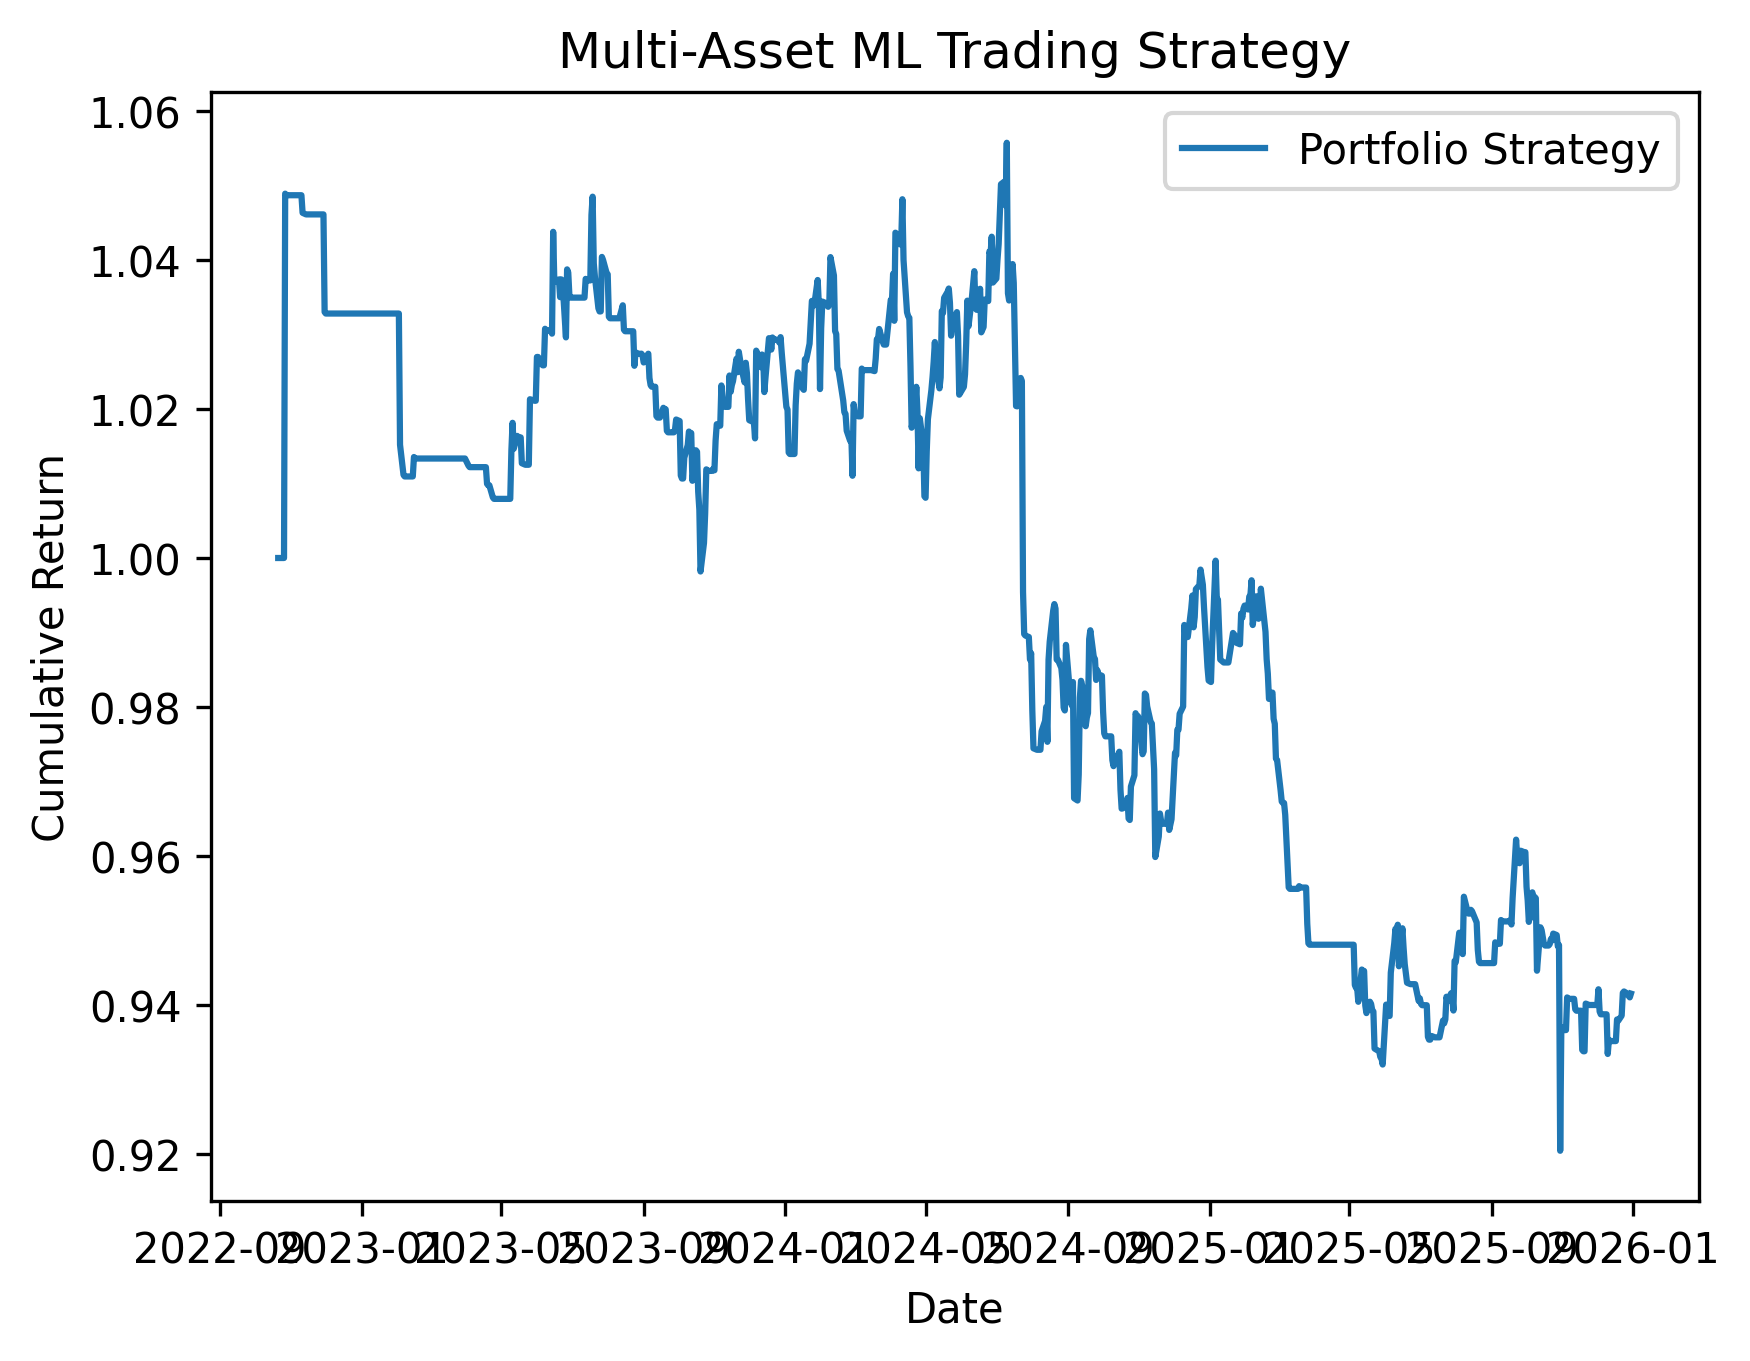
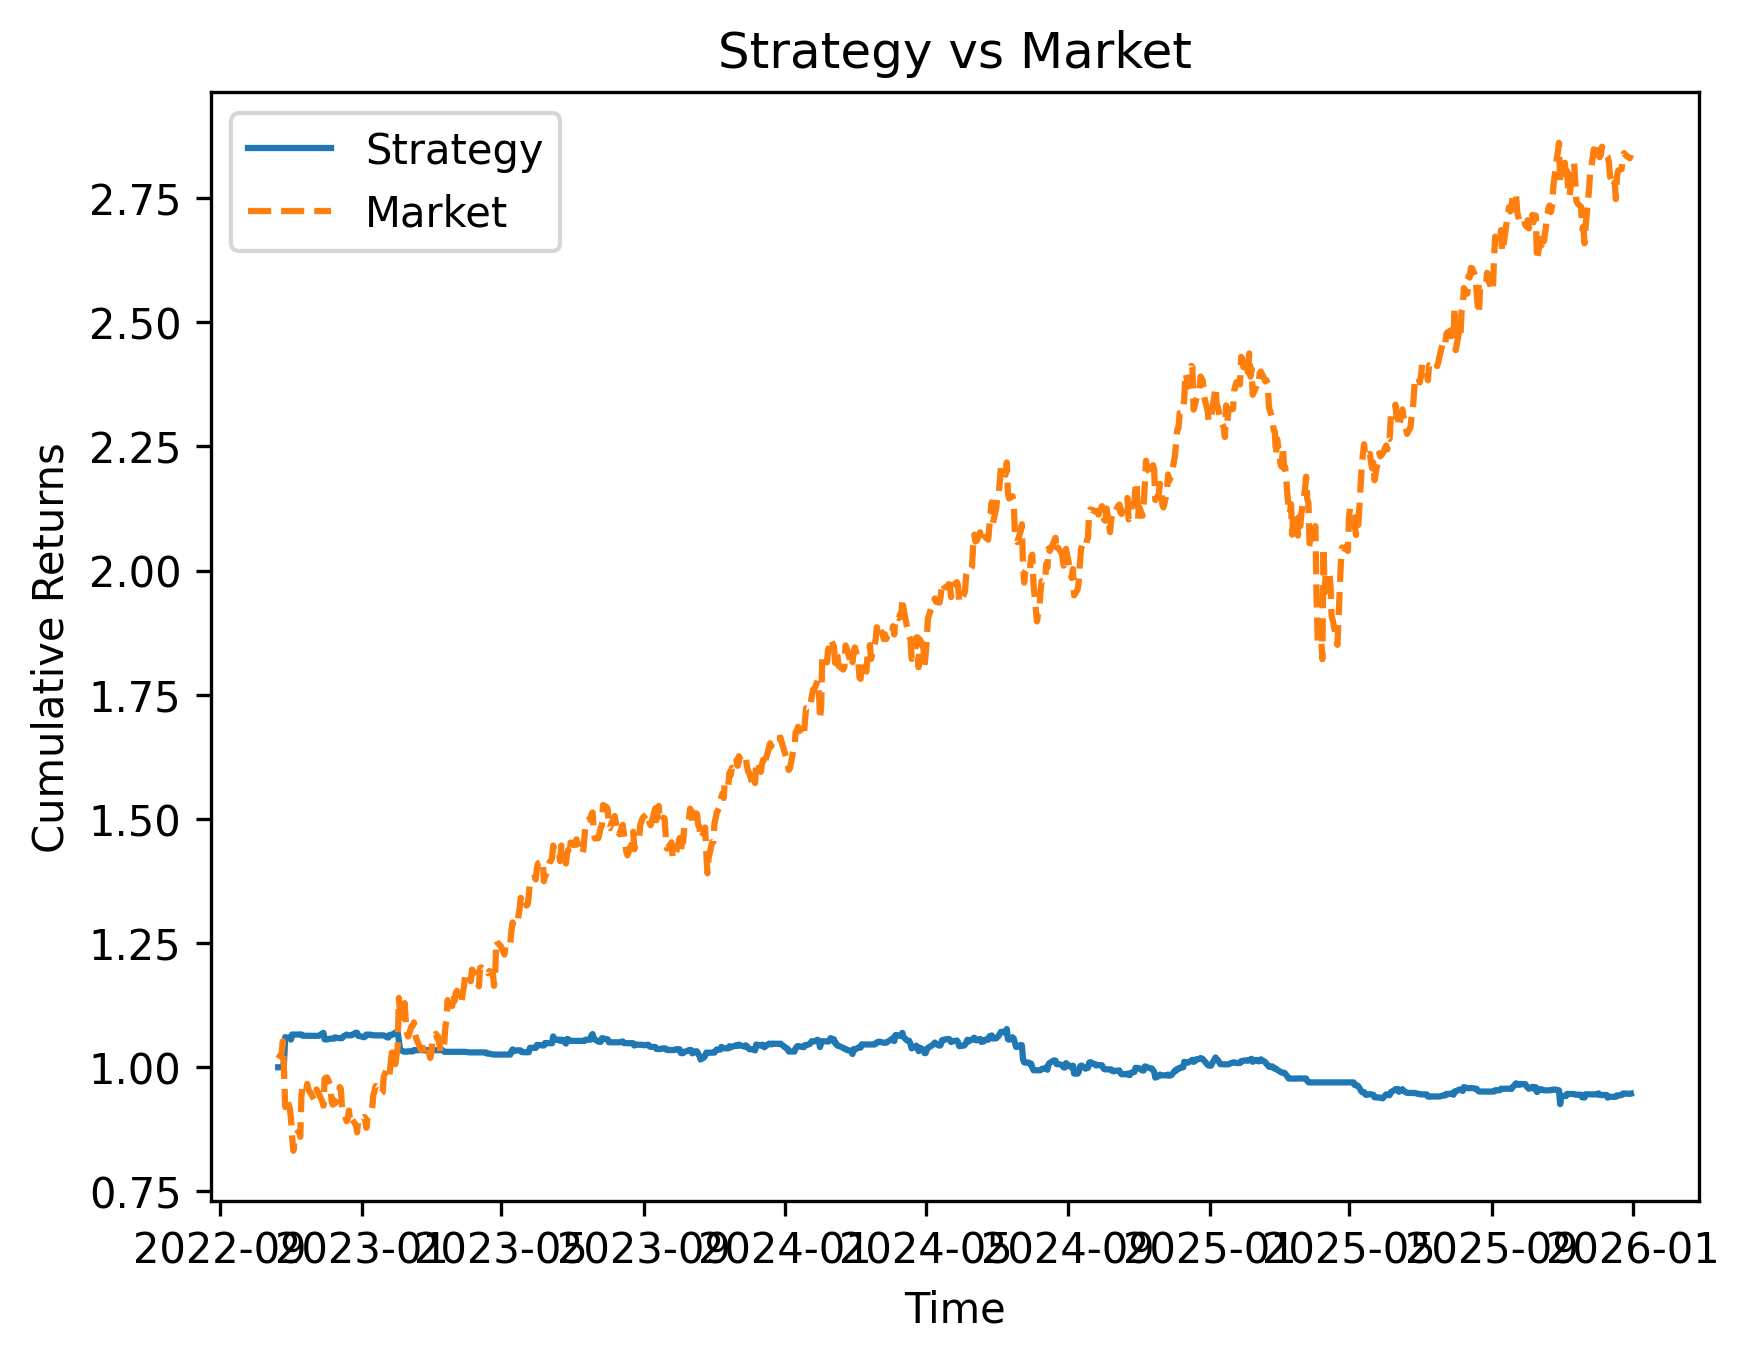
Update project documentation and performance charts"

diff --git a/main.py b/main.py
@@ -1,5 +1,6 @@
 import warnings
 from urllib3.exceptions import NotOpenSSLWarning
+
 warnings.filterwarnings("ignore", category=NotOpenSSLWarning)
 import matplotlib.pyplot as plt
 import pandas as pd
@@ -16,7 +17,6 @@ from src.data_loader import (
     backtest
 )
 
-
 def run_single_asset(ticker):
     print(f"\nRunning strategy for {ticker}...")
 
@@ -24,74 +24,86 @@ def run_single_asset(ticker):
     df = add_features(df)
 
     X, y, df = prepare_data(df)
-
     preds = walk_forward(X, y)
-
-    best_long, best_short = optimize_thresholds(df, preds)
 
     df = apply_strategy(
         df,
         preds,
-        long_rank=0.8,
-        short_rank=0.005,
+        long_rank=0.80,
+        short_rank=0.05,
         use_trend_filter=True,
         verbose=False
     )
 
     results = backtest(df)
 
+    strategy_returns = results["strategy_return"].rename(ticker)
+    market_returns = results["return"].rename(ticker)
 
-    return results["strategy_return"].rename(ticker)
-
+    return strategy_returns, market_returns
 
 def main():
     tickers = ["AAPL", "MSFT", "GOOGL", "AMZN", "META"]
 
-    all_returns = []
+    all_strategy_returns = []
+    all_market_returns = []
 
     for ticker in tickers:
         try:
-            strategy_returns = run_single_asset(ticker)
-            all_returns.append(strategy_returns)
+            strategy_returns, market_returns = run_single_asset(ticker)
+            all_strategy_returns.append(strategy_returns)
+            all_market_returns.append(market_returns)
         except Exception as e:
             print(f"Failed to process {ticker}: {e}")
 
-    returns_df = pd.concat(all_returns, axis=1).dropna()
+    strategy_df = pd.concat(all_strategy_returns, axis=1).dropna()
+    market_df = pd.concat(all_market_returns, axis=1).dropna()
 
-    # Equal-weight portfolio
-    portfolio_returns = returns_df.mean(axis=1)
+    # Equal-weight portfolios
+    portfolio_returns = strategy_df.mean(axis=1)
+    market_returns = market_df.mean(axis=1)
 
     cumulative_portfolio = (1 + portfolio_returns).cumprod()
+    cumulative_market = (1 + market_returns).cumprod()
 
     sharpe = (
-                     portfolio_returns.mean() /
-                     portfolio_returns.std()
-             ) * np.sqrt(252)
+        portfolio_returns.mean() /
+        portfolio_returns.std()
+    ) * np.sqrt(252)
 
-    print("\n=== MULTI-ASSET PORTFOLIO RESULTS ===")
+    print("\n=== FINAL RESULTS ===")
     print(f"Portfolio Return: {cumulative_portfolio.iloc[-1]:.2f}")
+    print(f"Market Return: {cumulative_market.iloc[-1]:.2f}")
     print(f"Portfolio Sharpe: {sharpe:.2f}")
+    print(f"Total Trades: {(strategy_df != 0).sum().sum()}")
 
     plt.figure()
-    plt.plot(cumulative_portfolio, label="Portfolio Strategy")
+    plt.plot(cumulative_portfolio, label="Strategy")
+    plt.plot(cumulative_market, label="Market", linestyle="--")
     plt.legend()
-    plt.title("Multi-Asset ML Trading Strategy")
-    plt.xlabel("Date")
-    plt.ylabel("Cumulative Return")
-    print("Saving plot...")
+    plt.title("Strategy vs Market")
+    plt.xlabel("Time")
+    plt.ylabel("Cumulative Returns")
+
     BASE_DIR = os.path.dirname(os.path.abspath(__file__))
-    if BASE_DIR.endswith("src"):
-        PROJECT_ROOT = os.path.abspath(os.path.join(BASE_DIR, ".."))
-    else:
-        PROJECT_ROOT = BASE_DIR
+    PROJECT_ROOT = os.path.abspath(os.path.join(BASE_DIR, "..")) if BASE_DIR.endswith("src") else BASE_DIR
     IMAGE_DIR = os.path.join(PROJECT_ROOT, "images")
     os.makedirs(IMAGE_DIR, exist_ok=True)
+
     save_path = os.path.join(IMAGE_DIR, "strategy_performance.png")
-    print("Chart saved to images/strategy_performance.png")
     plt.savefig(save_path, dpi=300, bbox_inches="tight")
     plt.close()
-    plt.show()
 
+    print("Chart saved to images/strategy_performance.png")
+
+    drawdown = cumulative_portfolio / cumulative_portfolio.cummax() - 1
+
+    plt.figure()
+    plt.plot(drawdown)
+    plt.title("Strategy Drawdown")
+    plt.xlabel("Time")
+    plt.ylabel("Drawdown")
+    plt.show()
 
 if __name__ == "__main__":
     print("Running trading strategy...")